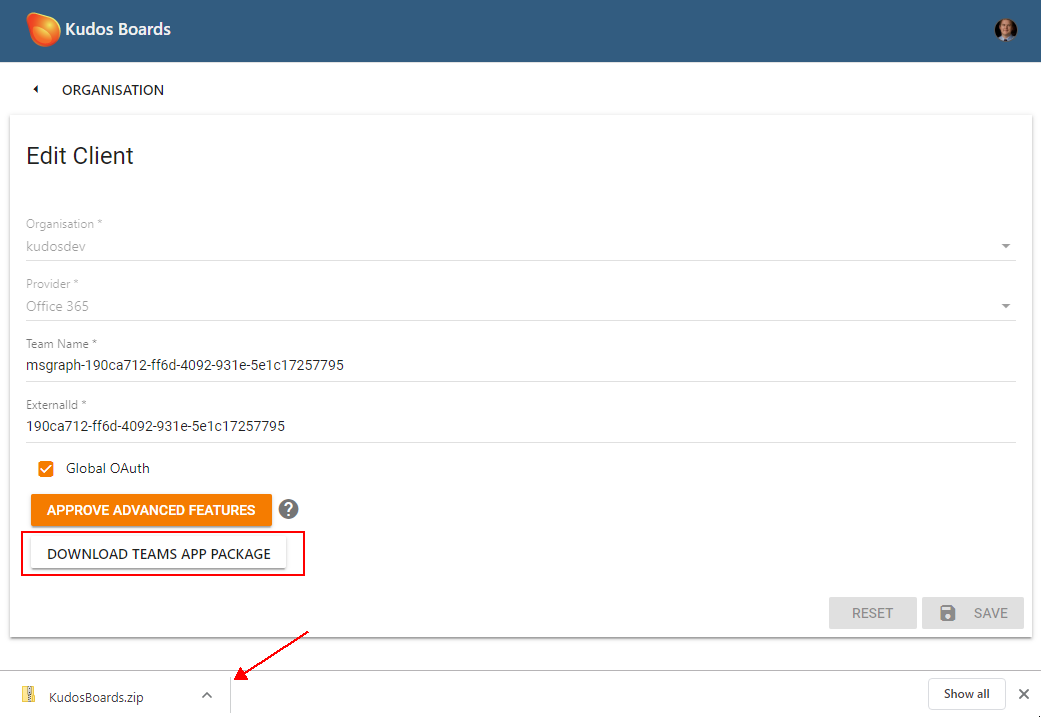
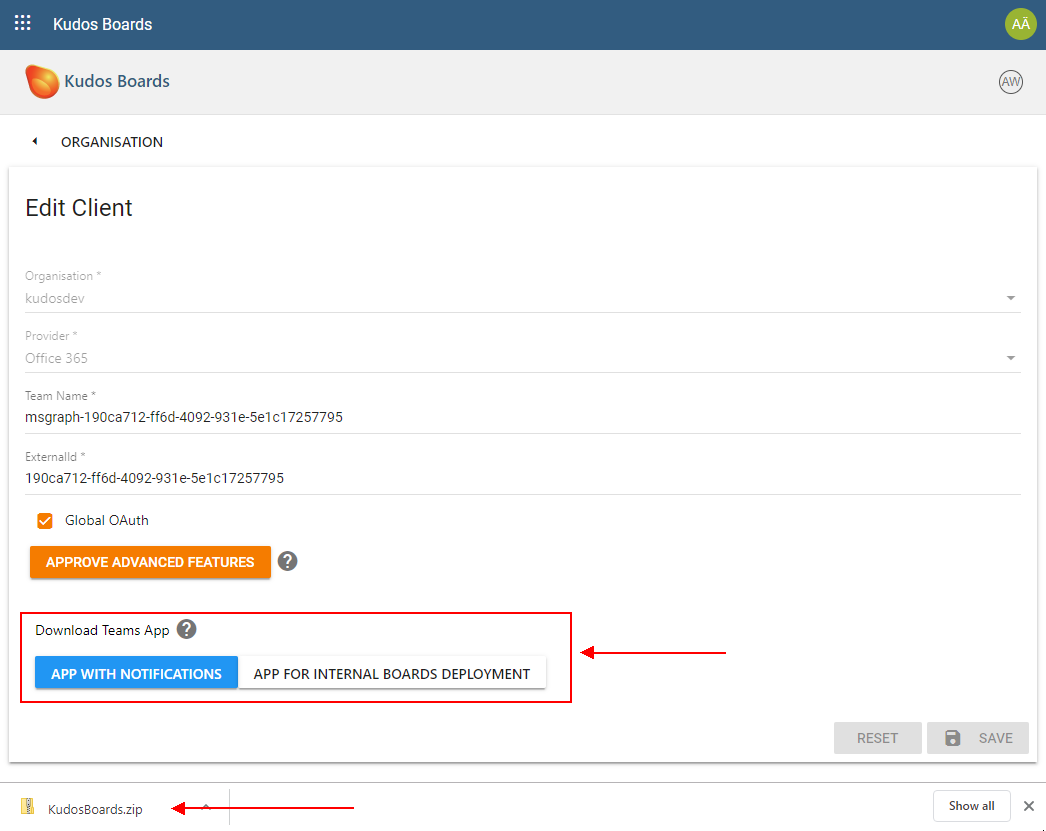
Update Team app download info

diff --git a/docs/boards/msgraph/teams-on-prem.md b/docs/boards/msgraph/teams-on-prem.md
@@ -34,7 +34,11 @@
 
     ![example](/assets/msgraph/teams/admin-org.png)
 
-1. Click `Download Teams app package`
+1. Click the download button for your configuration
+
+    - `App with Notifications` (if you can and have enabled the [notification bot](/boards/msgraph/notification-bot/))
+
+    - `App for Internal Boards Deployment` (if you do not want notifications)
 
     ![example](/assets/msgraph/teams/app-download.png)
 
